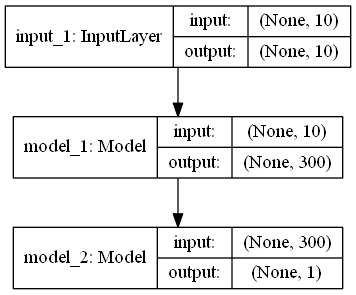
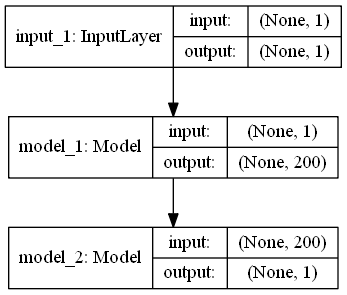
Fix network bugs

diff --git a/src/models/gan_predictive.py b/src/models/gan_predictive.py
@@ -14,9 +14,11 @@ from models.operations import drop_last_value
 from models.metrics import Metrics
 from models.losses import loss_predictor, loss_adv
 from models.activations import modulo
+from data_sources import randomness_sources as data
 from keras import Model
 from keras.layers import Input, Lambda, Dense, SimpleRNN, LSTM, Reshape, Flatten
 from keras.activations import linear, relu
+from keras.optimizers import adagrad
 from tqdm import tqdm
 from utils import utils
 from utils import vis_utils
@@ -24,16 +26,18 @@ import numpy as np
 
 
 class PredictiveGan:
-    def __init__(self, dataset_size=100, max_val=100, timesteps=5, seed_length=10, output_length=300, lr=0.1, cv=1, batch_size=1):
+    def __init__(self, dataset_size=100, max_val=100, seed_length=10, unique_seeds=100, repetitions=1, output_length=300, lr=0.1, cv=1, batch_size=1):
         self.metrics = Metrics()
         self.dataset_size = dataset_size
         self.max_val = max_val
         self.seed_length = seed_length
         self.output_length = output_length
+        self.unique_seeds = unique_seeds
+        self.repetitions = repetitions
         # generator
         generator_inputs = Input(shape=(seed_length,))
         generator_outputs = Dense(output_length, activation=linear)(generator_inputs)
-        generator_outputs = Reshape(target_shape=(5, 60))(generator_outputs)
+        generator_outputs = Reshape(target_shape=(5, int(output_length/5)))(generator_outputs)
         generator_outputs = SimpleRNN(60, return_sequences=True, activation=linear)(generator_outputs)
         generator_outputs = Flatten()(generator_outputs)
         generator_outputs = Dense(output_length, activation=modulo(max_val))(generator_outputs)
@@ -43,12 +47,12 @@ class PredictiveGan:
         # predictor
         predictor_inputs = Input(shape=(output_length - 1,))
         predictor_outputs = Dense(output_length)(predictor_inputs)
-        predictor_outputs = Reshape(target_shape=(5, 60))(predictor_outputs)
-        predictor_outputs = LSTM(60, return_sequences=True, activation=linear)(predictor_outputs)
+        predictor_outputs = Reshape(target_shape=(5, int(output_length/5)))(predictor_outputs)
+        predictor_outputs = LSTM(int(output_length/5), return_sequences=True, activation=linear)(predictor_outputs)
         predictor_outputs = Flatten()(predictor_outputs)
         predictor_outputs = Dense(1, activation=relu)(predictor_outputs)
         self.predictor = Model(predictor_inputs, predictor_outputs)
-        self.predictor.compile('adagrad', loss_predictor(max_val))
+        self.predictor.compile(adagrad(lr=lr, clipvalue=cv), loss_predictor(max_val))
         vis_utils.plot_network_graphs(self.predictor, 'pred_adversary')
         # connect GAN
         operations_adv = self.generator(generator_inputs)
@@ -57,12 +61,13 @@ class PredictiveGan:
             name='adversarial_drop_last_value')(operations_adv)
         operations_adv = self.predictor(operations_adv)
         self.adversarial = Model(generator_inputs, operations_adv, name='adversarial')
-        self.adversarial.compile('adagrad', loss_adv(loss_predictor(max_val)))
+        self.adversarial.compile(adagrad(lr=lr, clipvalue=cv), loss_adv(loss_predictor(max_val)))
         vis_utils.plot_network_graphs(self.adversarial, 'pred_gan')
 
-    def pretrain_predictor(self, seed_dataset, epochs):
+    def pretrain_predictor(self, batch_size, epochs):
         """Pre-trains the predictor network on its own. Used before the
         adversarial training of both models is started."""
+        seed_dataset = data.get_seed_dataset(self.max_val, self.seed_length, self.unique_seeds, self.repetitions, batch_size)
         for epoch in range(epochs):
             epoch_pretrain_loss = []
             for generator_input in seed_dataset:
@@ -71,12 +76,13 @@ class PredictiveGan:
                 epoch_pretrain_loss.append(self.predictor.train_on_batch(predictor_input, predictor_output))
             self.metrics.predictor_pretrain_loss().append(np.mean(epoch_pretrain_loss))
 
-    def train(self, seed_dataset, epochs, pred_mult):
+    def train(self, batch_size, epochs, pred_mult):
         """Trains the adversarial model on the given dataset of seed values, for the
         specified number of epochs. The seed dataset must be 3-dimensional, of the form
         [batch, seed, seed_component]. Each 'batch' in the dataset can be of any size,
         including 1, allowing for online training, batch training, and mini-batch training.
         """
+        seed_dataset = data.get_seed_dataset(self.max_val, self.seed_length, self.unique_seeds, self.repetitions, batch_size)
         if len(np.shape(seed_dataset)) != 3:
             raise ValueError('Seed dataset has ' + str(len(np.shape(seed_dataset))) + ' dimension(s), should have 3')
 
@@ -100,12 +106,12 @@ class PredictiveGan:
                 predictor_input, predictor_output = utils.split_generator_output(generator_output, 1)
 
                 # train predictor
-                self.set_trainable(self.predictor)
+                utils.set_trainable(self.predictor)
                 for i in range(pred_mult):
                     epoch_pred_losses.append(self.predictor.train_on_batch(predictor_input, predictor_output))
 
                 # train generator
-                self.set_trainable(self.predictor, False)
+                utils.set_trainable(self.predictor, False)
                 epoch_gen_losses.append(self.adversarial.train_on_batch(generator_input, predictor_output))
 
             self.metrics.generator_loss().append(np.mean(epoch_gen_losses))

diff --git a/src/models/gan_discriminative.py b/src/models/gan_discriminative.py
@@ -29,7 +29,7 @@ class DiscriminativeGan:
     """Implementation of a classic generative adversarial network
     to the statistical randomness problem (i.e. 'approach 1').
     """
-    def __init__(self, dataset_size=100, max_val=100, seed_length=10, output_length=300, lr=0.1, cv=1):
+    def __init__(self, dataset_size=100, max_val=100, seed_length=10, output_length=300, lr=0.1, cv=1, batch_size=1):
         """Constructs the classical GAN according to the specifications
         provided. Each specification variable is a dictionary."""
         self.metrics = Metrics()
@@ -37,11 +37,12 @@ class DiscriminativeGan:
         self.max_val = max_val
         self.seed_length = seed_length
         self.output_length = output_length
+        self.batch_size = batch_size
         # generator
         generator_inputs = Input(shape=(seed_length,))
         generator_outputs = Dense(output_length, activation=linear)(generator_inputs)
-        generator_outputs = Reshape(target_shape=(5, 60))(generator_outputs)
-        generator_outputs = SimpleRNN(60, return_sequences=True, activation=linear)(generator_outputs)
+        generator_outputs = Reshape(target_shape=(5, int(output_length/5)))(generator_outputs)
+        generator_outputs = SimpleRNN(int(output_length/5), return_sequences=True, activation=linear)(generator_outputs)
         generator_outputs = Flatten()(generator_outputs)
         generator_outputs = Dense(output_length, activation=modulo(max_val))(generator_outputs)
         self.generator = Model(generator_inputs, generator_outputs)
@@ -50,10 +51,10 @@ class DiscriminativeGan:
         # discriminator
         discriminator_inputs = Input(shape=(output_length,))
         discriminator_outputs = Dense(output_length, activation=linear)(discriminator_inputs)
-        discriminator_outputs = Reshape(target_shape=(5, 60))(discriminator_outputs)
+        discriminator_outputs = Reshape(target_shape=(5, int(output_length/5)))(discriminator_outputs)
         discriminator_outputs = Conv1D(int(output_length / 4), 4)(discriminator_outputs)
         discriminator_outputs = Flatten()(discriminator_outputs)
-        discriminator_outputs = Dense(int(output_length / 3), activation=linear)(discriminator_outputs)
+        discriminator_outputs = Dense(int(output_length / 4), activation=linear)(discriminator_outputs)
         discriminator_outputs = Dense(1, activation=softmax)(discriminator_outputs)
         self.discriminator = Model(discriminator_inputs, discriminator_outputs)
         self.discriminator.compile(adagrad(lr=lr, clipvalue=cv), loss_discriminator)
@@ -62,7 +63,7 @@ class DiscriminativeGan:
         operations_adv = self.generator(generator_inputs)
         operations_adv = self.discriminator(operations_adv)
         self.adversarial = Model(generator_inputs, operations_adv)
-        self.adversarial.compile('adagrad', loss_adv(loss_discriminator))
+        self.adversarial.compile(adagrad(lr=lr, clipvalue=cv), loss_adv(loss_discriminator))
         vis_utils.plot_network_graphs(self.adversarial, 'disc_gan')
 
     def pretrain_discriminator(self, epochs, batch_size):

diff --git a/src/main.py b/src/main.py
@@ -34,7 +34,7 @@ from keras.optimizers import adagrad
 # simplify the code.
 
 SETTINGS = {
-    'dataset_size': 100,
+    'dataset_size': 10,
     'unique_seeds': 1,
     'seed_repetitions': 1,
     'pretrain': True,
@@ -56,15 +56,35 @@ def main():
     """Instantiates neural networks and runs the training procedure. Results
     are plotted visually."""
     # approach 1: adversarial network with discriminator
-    disc_gan = DiscriminativeGan()
-    pred_gan = PredictiveGan()
+    disc_gan = DiscriminativeGan(SETTINGS['dataset_size'],
+                                 DATA_PARAMS['max_val'],
+                                 DATA_PARAMS['seed_length'],
+                                 DATA_PARAMS['out_seq_length'],
+                                 SETTINGS['learning_rate'],
+                                 SETTINGS['clip_value'],
+                                 SETTINGS['batch_size'])
+    pred_gan = PredictiveGan(SETTINGS['dataset_size'],
+                             DATA_PARAMS['max_val'],
+                             DATA_PARAMS['seed_length'],
+                             SETTINGS['unique_seeds'],
+                             SETTINGS['seed_repetitions'],
+                             DATA_PARAMS['out_seq_length'],
+                             SETTINGS['learning_rate'],
+                             SETTINGS['clip_value'],
+                             SETTINGS['batch_size'])
 
-    disc_gan.pretrain_discriminator(SETTINGS['batch_size'], SETTINGS['pretrain_epochs'])
-    disc_gan.train(SETTINGS['batch_size'], SETTINGS['epochs'], SETTINGS['adversary_multiplier'])
+    disc_gan.pretrain_discriminator(SETTINGS['batch_size'],
+                                    SETTINGS['pretrain_epochs'])
+    disc_gan.train(SETTINGS['batch_size'],
+                   SETTINGS['epochs'],
+                   SETTINGS['adversary_multiplier'])
     # disc_gan.evaluate()
 
-    # pred_gan.pretrain_predictor()
-    # pred_gan.train()
+    pred_gan.pretrain_predictor(SETTINGS['batch_size'],
+                                SETTINGS['pretrain_epochs'])
+    pred_gan.train(SETTINGS['batch_size'],
+                   SETTINGS['epochs'],
+                   SETTINGS['adversary_multiplier'])
     # pred_gan.evaluate()
 
     # vis_utils.plot_metrics(classic_gan.get_metrics(), IO_PARAMS['max_val'])
